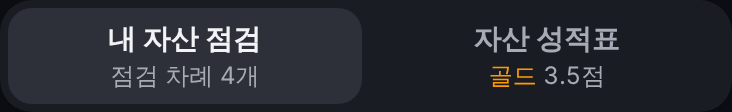
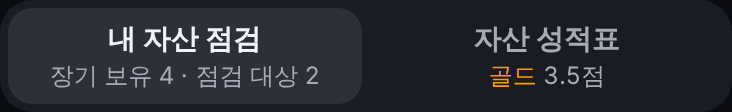
memory: 5.126 p2 정리 dev-notes·실측 캡처(@35e4cbc)

Changed region(s): [[0.0601, 0.5893, 0.4508, 0.8036]]

diff --git a/issues/5.126-241-morning-push/5.126-dev-notes.md b/issues/5.126-241-morning-push/5.126-dev-notes.md
@@ -79,3 +79,29 @@
 - qa O-1 반영: 6절의 '어느 경우도 틀린 숫자는 나가지 않는다'는 증명된 문장이 아니다 — flat 보호는 값이 완전히 같을 때만 걸리므로, 휴장일 자리 행이 확정 전 전일 값을 복제하면 작은 등락률로 나갈 수 있다(미재현). 12/25·12/31 로그 `fx=`와 실수신으로 확정.
 - 라이트 테마·실기기에서는 재측정하지 않았다(다크 6개 폭만).
 
+
+## p2 정리 (11/19, head `35e4cbc`)
+
+main(v5.127, e4253da) 병합 `efa0ae9` → 수정 `e0de93a` → KB `35e4cbc`. 병합 충돌 5파일: 새 소식은 두 항목 유지(`20261119-01`이 최신, 그 아래 `20261118-01`), 테스트 3곳은 최신 id `20261119-01`, KB 2파일은 양쪽 유지. 저장·계산·서버 전송 변경 0(표시만).
+
+| 항목 | 원인 | 수정 | preview 실측(320·390·1280, 데모 다크) |
+|---|---|---|---|
+| 1. 세그먼트 둘째 줄 `점검 대` / `상` | 줄바꿈 클래스 없음 | **5.127이 이미 수정**(ui.md 2-7, 조각 2개 nowrap + flex-wrap). 병합으로 들어옴, 추가 변경 없음 | 320 `장기 보유 4 ·` / `점검 대상 2` 2줄(칸 64), 390·1280 1줄(48·54). 조각 잘림 0. 허브 둘째 줄 1줄 |
+| 2. 행 `›` 처짐 | `row-span-2 self-center` — 두 줄 가운데에 놓여 % 줄보다 아래 | `row-span-2` 제거(첫 줄 칸). **전 폭 공통**(코드가 폭 구분 없이 같았다) | `›` 중심 − % 중심 = 0px(6행 × 3폭), 행 높이 그대로(58·74·90 / 58 / 64) |
+| 3. `1종목 모두 점검 차례` | `due === count` 분기가 1종목도 `모두` | 1종목이면 `1종목 · 점검 차례` | 코인 BTC를 차례로 만들어 3폭 모두 `1종목 · 점검 차례`. 주식 `2종목 모두 점검 차례` 그대로 |
+| 4-1. 성적표 제목 중복 | 세그먼트 둘째 칸 머리와 구획 제목이 같은 낱말 | 세그먼트가 보이면 구획 제목 줄을 빼고 5축 ⓘ(`report-grade-hint`)를 Hero 오른쪽 위 12·12에(문구 그대로). 세그먼트 없는 화면은 그대로 | 화면의 `자산 성적표` 낱말 1곳, `report-section-title` 없음, ⓘ 팝오버 화면 안(320 20~308) |
+| 4-2. `(빌린 돈)는` 갈림 | 닫는 괄호 뒤 줄바꿈 기회(C114) | `실투자금(내 돈)과`·`레버리지(빌린 돈)는` nowrap 묶음(글자 그대로) | 3폭 모두 묶음 1줄 |
+| 4-3. 체험 허브 `등급 보기` | 아래 '못 한 것' | 변경 없음 | — |
+| 4-4. 미사용 eslint-disable | `stock-label-block.tsx` 2곳 | 주석 2건 제거 | lint 경고 131 → 129 |
+
+- 검증: tsc 0 · lint 0 errors(129 warnings) · vitest 221파일 3397건 · build 성공(1회차 보안 권고 exit 1, 재실행 0). Vercel success @35e4cbc. pageerror 0, 가로 넘침 0.
+- 테스트 추가: `stock-label-block.test.tsx`(1종목 문구, 화살표 첫 줄 — 기존 `row-span-2` 개수 단언은 새 클래스 기준으로 고침), `asset-report-view.test.tsx`(세그먼트 유무별 구획 제목·ⓘ 1개, 괄호 묶음, testId 허용 목록에 `report-grade-hint`).
+- preview 확인 순서: `/?demo=1` → 성과 › 자산 성적표·불리기 → ① 내 종목 행의 `›`가 % 줄 높이 ② 둘째 칸 `자산 성적표` → 제목 줄 없이 Hero, 오른쪽 위 ⓘ ③ 투입 대비 성과 ⓘ 둘째 문단 ④ 코인 보기 `점검 대상` 줄(BTC가 차례일 때만 `1종목 · 점검 차례`) ⑤ 차례를 모두 처리하면 세그먼트 `장기 보유 N · 점검 대상 N`.
+- 캡처 `screenshots/p2/`(p2-rows·p2-grade·p2-grade-hint·p2-paren·p2-one·p2-seg × 3폭), 도구 `tools/dev-5126-p2*.mjs`.
+
+**못 한 것 · 판단이 필요한 것**
+- **체험 허브 `등급 보기`(4-3)**: 고치지 않았다. 운영 체험 실측 — 체험에는 오늘 날짜 일별 기록이 없어(11/18까지 6건) 성적표를 열어도 등급이 일별 기록에 남지 않는다(월 기록에만 남음). 허브·홈 트로피는 일별 기록만 읽으므로 체험에서는 성적표를 본 뒤에도 계속 `등급 보기`다(5.125 문서의 '한 번 열면 맞춰진다'는 체험에서 사실이 아니다). 시드로 맞추려면 체험 계산값(골드 4.0: 수익의 질 3.5·레버리지 5·분산 3·습관 4·성장 측정불가)을 전날 기록에 넣어야 하는데, 습관 축이 이번 달 기록률(날짜에 따라 변함)이라 값이 어긋나는 날 `▲`·`▼ … 대비`가 거짓으로 뜬다 — 11/18 오케스트레이터가 시드를 뺀 이유와 같다. 다른 길(일별에 없으면 월 기록 등급 읽기)은 실사용자 홈 트로피 동작이 바뀌어 p2 범위를 넘는다. 방향 결정 필요.
+- `src/app/api/parse-screenshot/route.ts:679·817`의 미사용 eslint-disable 2건은 메모리에 적힌 대상(stock-label-block)이 아니라 남겼다.
+- 장기 보유 줄의 `1종목 수익률 … · 모두 평단보다 낮음`(1종목일 때 `모두`)은 같은 어색함이지만 요청 범위 밖이라 그대로다.
+- 화살표 위치는 전 폭에서 바뀐다(1280만이 아님) — ui-designer 검수에서 확인 필요.
+- 커밋 꼬리말 Co-Authored-By는 세션 지침에 따라 `Claude Fable 5.2`로 적었다(요청 문구는 Opus 5.5).
